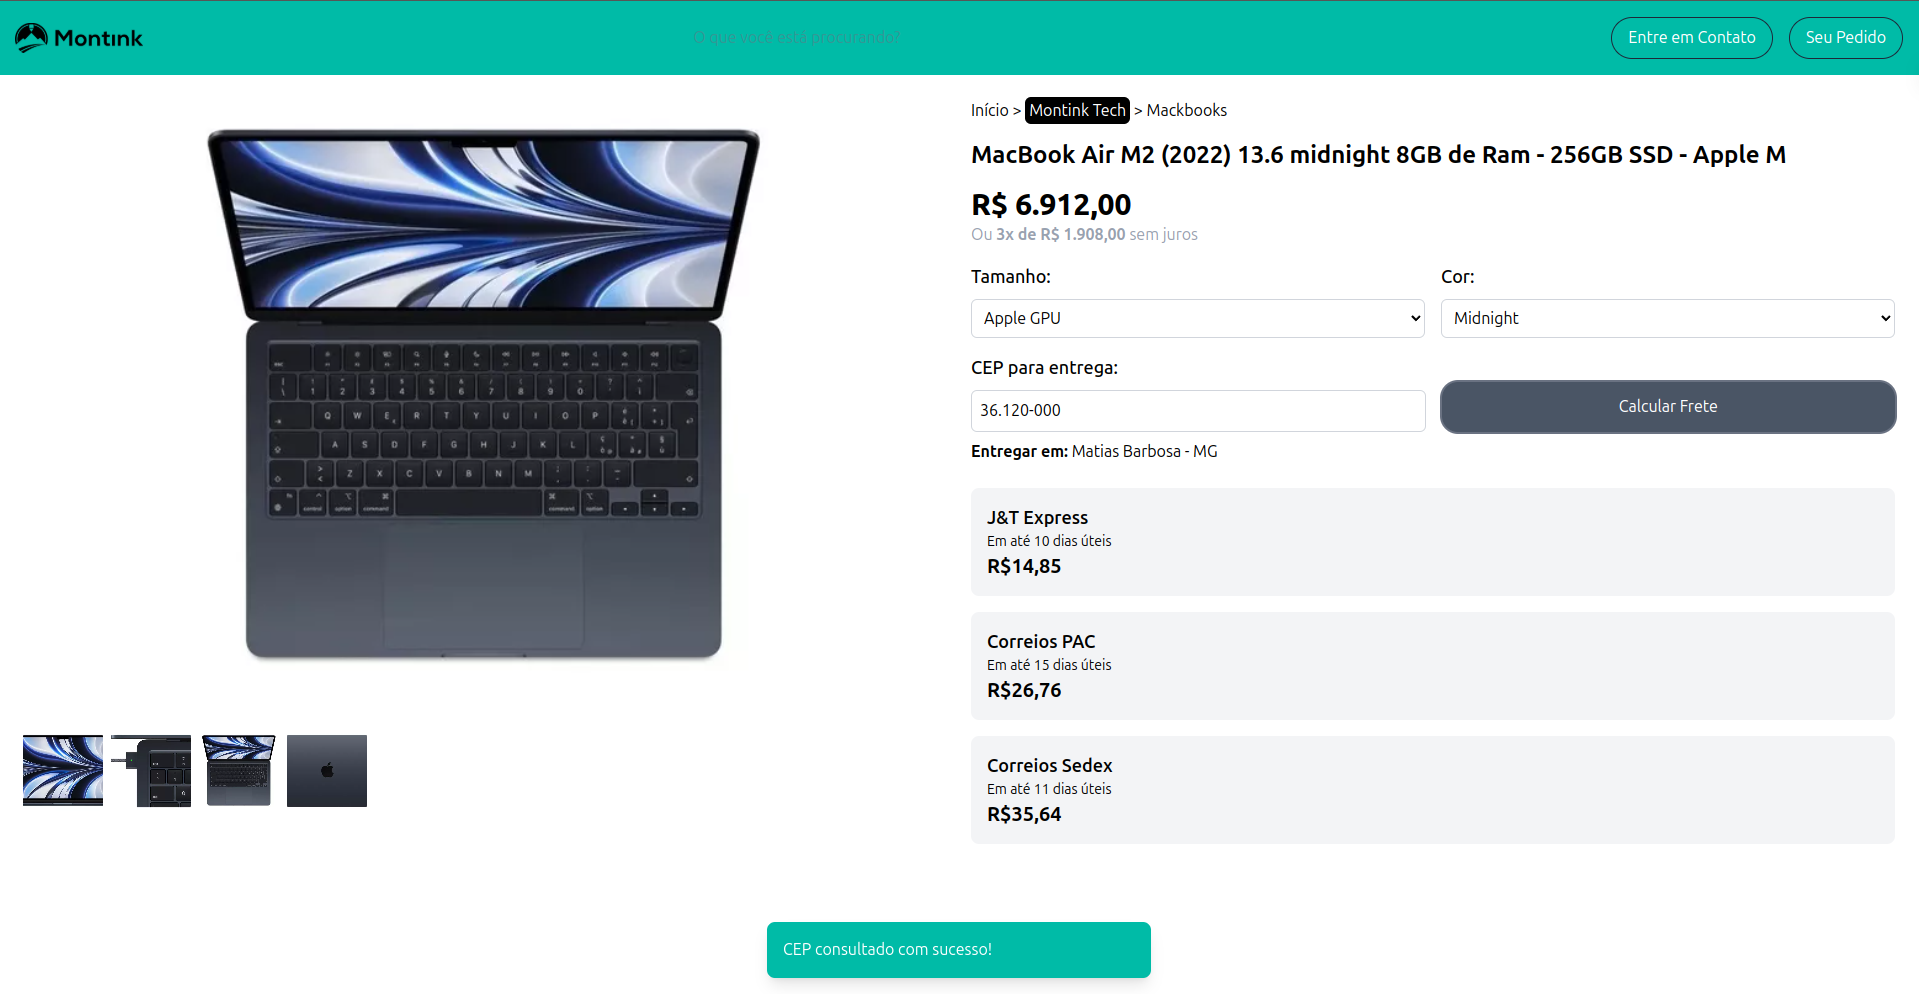
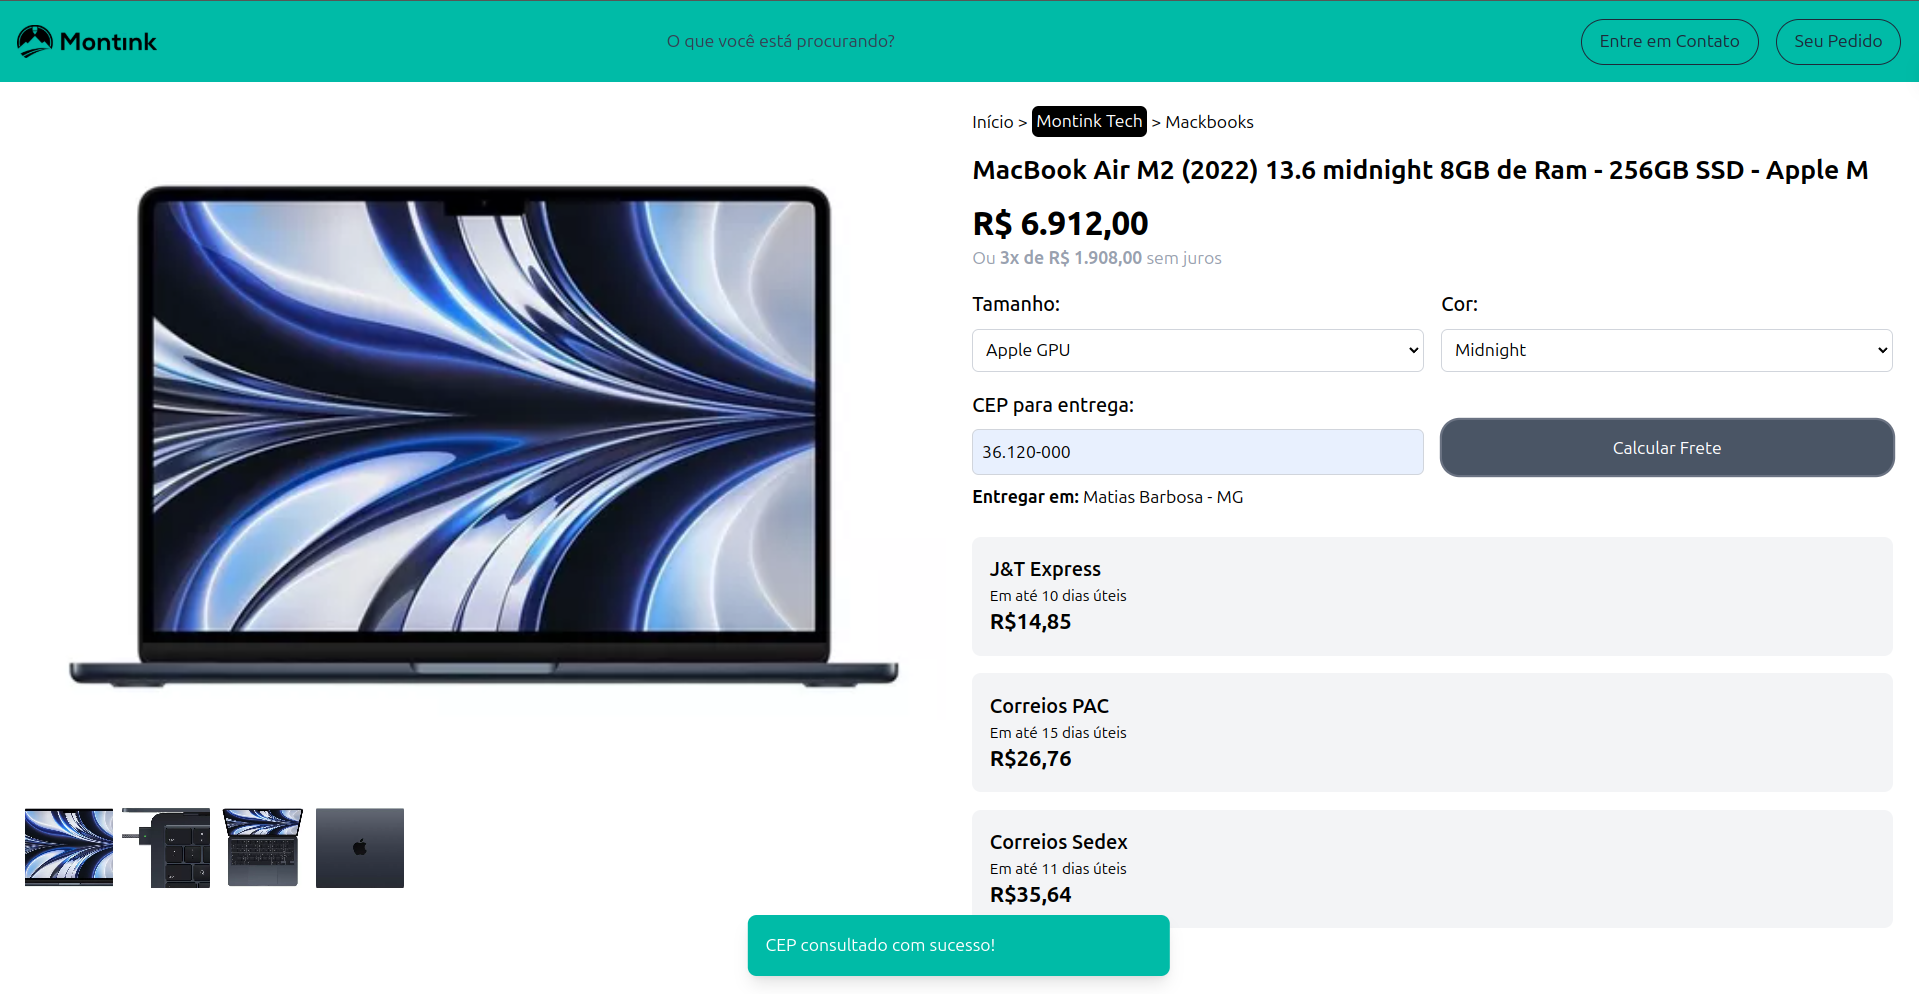
feat: add new project print

Changed region(s): [[0.0, 0.1247, 0.4919, 0.9044], [0.0, 0.0312, 1.0, 0.998], [0.7379, 0.2807, 1.0, 0.499]]

diff --git a/src/components/Header/index.tsx b/src/components/Header/index.tsx
@@ -15,14 +15,14 @@ const Header: React.FC = () => {
         <input
           type="text"
           placeholder="O que você está procurando?"
-          className="w-full md:w-96 p-2 rounded-full text-gray-500"
+          className="w-full md:w-96 p-2 rounded-full text-gray-800 placeholder:text-gray-700"
         />
       </div>
       <div className="flex items-center space-x-4 w-full md:w-auto justify-between md:justify-start">
-        <button className="flex items-center space-x-2 text-white border border-gray-800 rounded-full px-4 py-2 mb-2 md:mb-0 w-full md:w-auto">
+        <button className="flex items-center space-x-2 text-gray-800 border border-gray-800 rounded-full px-4 py-2 mb-2 md:mb-0 w-full md:w-auto">
           <span>Entre em Contato</span>
         </button>
-        <button className="flex items-center justify-center space-x-2 text-white border border-gray-800 rounded-full px-4 py-2 mb-2 md:mb-0 w-full md:w-auto">
+        <button className="flex items-center justify-center space-x-2 text-gray-800 border border-gray-800 rounded-full px-4 py-2 mb-2 md:mb-0 w-full md:w-auto">
           <span>Seu Pedido</span>
         </button>
       </div>
